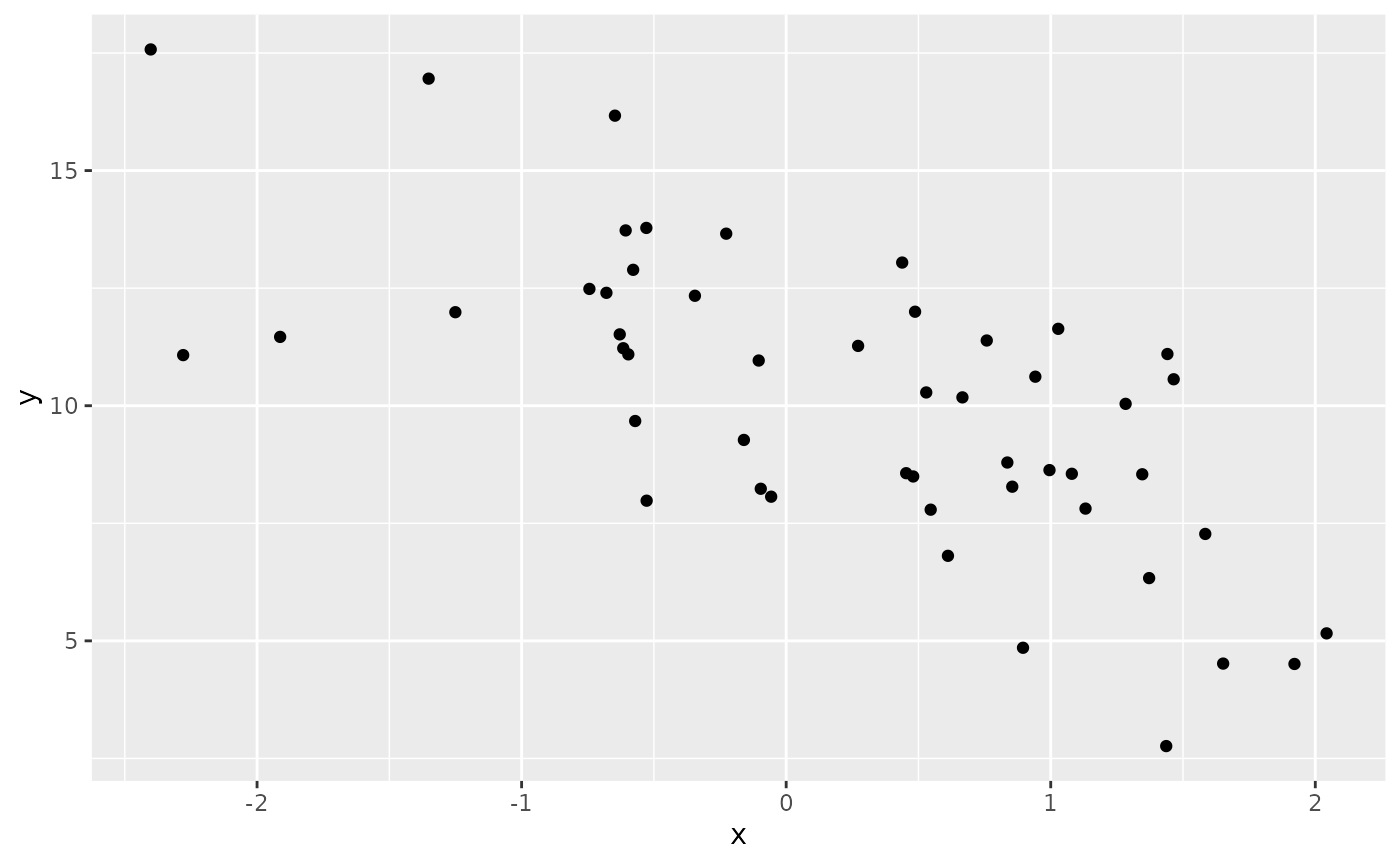
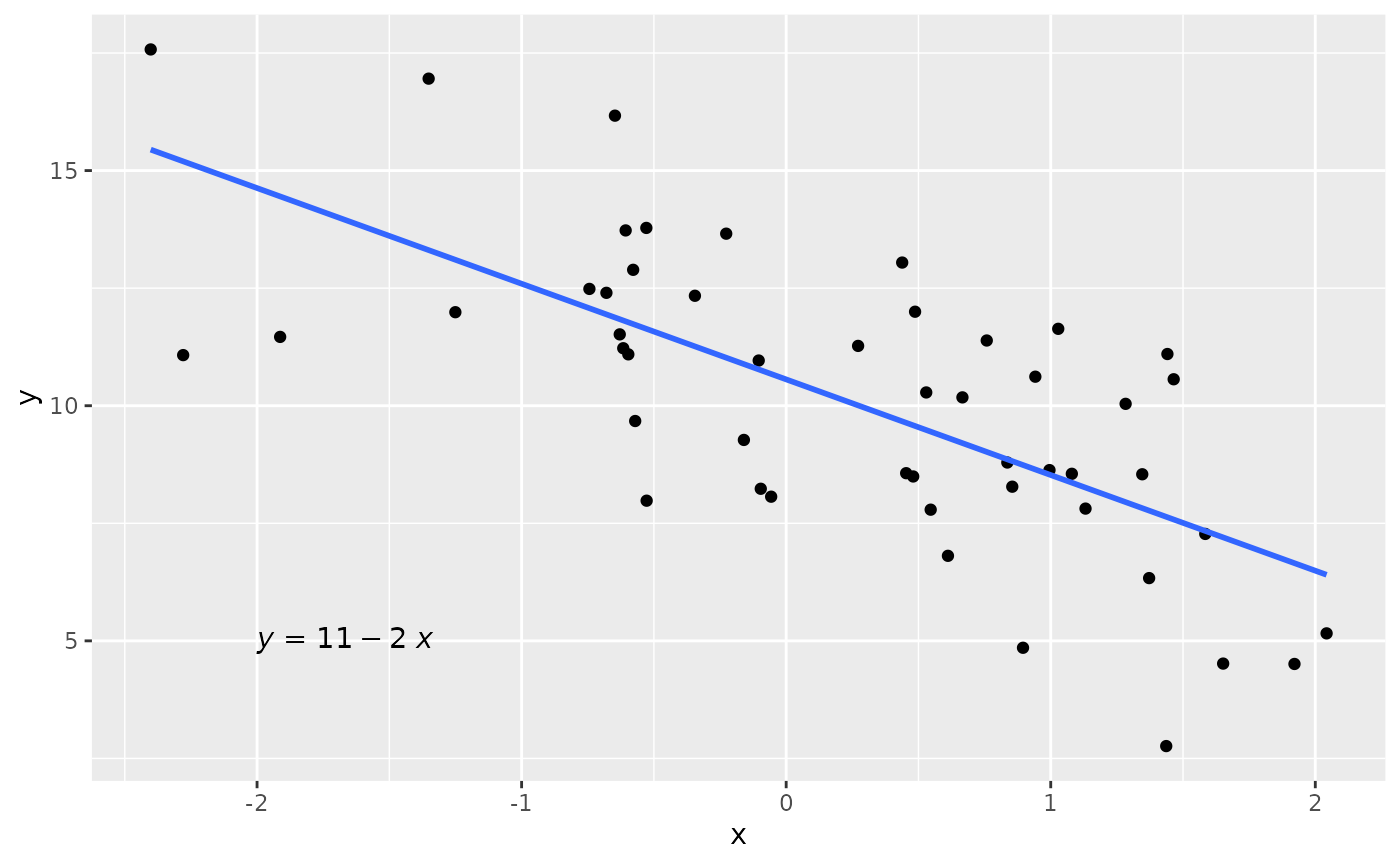
Deploying to gh-pages from @ fndemarqui/reglin@e73794aa79eba68a62bc136738235b41db375cd1 🚀

diff --git a/articles/simdata.html b/articles/simdata.html
@@ -68,9 +68,8 @@
 
 
 
-<script src="simdata_files/htmlwidgets-1.5.4/htmlwidgets.js"></script><script src="simdata_files/plotly-binding-4.10.0/plotly.js"></script><script src="simdata_files/typedarray-0.1/typedarray.min.js"></script><link href="simdata_files/crosstalk-1.2.0/css/crosstalk.min.css" rel="stylesheet">
-<script src="simdata_files/crosstalk-1.2.0/js/crosstalk.min.js"></script><link href="simdata_files/plotly-htmlwidgets-css-2.5.1/plotly-htmlwidgets.css" rel="stylesheet">
-<script src="simdata_files/plotly-main-2.5.1/plotly-latest.min.js"></script><div class="row">
+
+<div class="row">
   <main id="main" class="col-md-9"><div class="page-header">
       <img src="" class="logo" alt=""><h1>Simulação de dados com estrutura de regressão linear</h1>
             
@@ -86,7 +85,6 @@
 <span><span class="kw"><a href="https://rdrr.io/r/base/library.html" class="external-link">library</a></span><span class="op">(</span><span class="va"><a href="https://fndemarqui.github.io/reglin/" class="external-link">reglin</a></span><span class="op">)</span></span>
 <span><span class="kw"><a href="https://rdrr.io/r/base/library.html" class="external-link">library</a></span><span class="op">(</span><span class="va"><a href="https://tidyverse.tidyverse.org" class="external-link">tidyverse</a></span><span class="op">)</span></span>
 <span><span class="kw"><a href="https://rdrr.io/r/base/library.html" class="external-link">library</a></span><span class="op">(</span><span class="va"><a href="https://rpkgs.datanovia.com/ggpubr/" class="external-link">ggpubr</a></span><span class="op">)</span></span>
-<span><span class="kw"><a href="https://rdrr.io/r/base/library.html" class="external-link">library</a></span><span class="op">(</span><span class="va"><a href="https://plotly-r.com" class="external-link">plotly</a></span><span class="op">)</span></span>
 <span></span>
 <span><span class="co"># fixando a semente:</span></span>
 <span><span class="fu"><a href="https://rdrr.io/r/base/Random.html" class="external-link">set.seed</a></span><span class="op">(</span><span class="fl">1234567890</span><span class="op">)</span></span>
@@ -96,20 +94,40 @@
 <span><span class="va">beta</span> <span class="op">&lt;-</span> <span class="fu"><a href="https://rdrr.io/r/base/c.html" class="external-link">c</a></span><span class="op">(</span><span class="fl">10</span>, <span class="op">-</span><span class="fl">2</span><span class="op">)</span></span>
 <span><span class="va">data</span> <span class="op">&lt;-</span><span class="fu"><a href="https://rdrr.io/r/base/data.frame.html" class="external-link">data.frame</a></span><span class="op">(</span>x<span class="op">=</span><span class="fu"><a href="https://rdrr.io/r/stats/Normal.html" class="external-link">rnorm</a></span><span class="op">(</span><span class="va">n</span><span class="op">)</span><span class="op">)</span></span>
 <span></span>
-<span><span class="va">df</span> <span class="op">&lt;-</span> <span class="fu"><a href="../reference/rlm.html">rlm</a></span><span class="op">(</span><span class="op">~</span><span class="va">x</span>, data <span class="op">=</span> <span class="va">data</span>, beta <span class="op">=</span> <span class="va">beta</span>, sigma <span class="op">=</span> <span class="va">sigma</span><span class="op">)</span></span>
-<span><span class="fu"><a href="https://pillar.r-lib.org/reference/glimpse.html" class="external-link">glimpse</a></span><span class="op">(</span><span class="va">df</span><span class="op">)</span></span>
+<span><span class="va">simdata</span> <span class="op">&lt;-</span> <span class="fu"><a href="../reference/rlm.html">rlm</a></span><span class="op">(</span><span class="op">~</span><span class="va">x</span>, data <span class="op">=</span> <span class="va">data</span>, beta <span class="op">=</span> <span class="va">beta</span>, sigma <span class="op">=</span> <span class="va">sigma</span><span class="op">)</span></span>
+<span><span class="fu"><a href="https://pillar.r-lib.org/reference/glimpse.html" class="external-link">glimpse</a></span><span class="op">(</span><span class="va">simdata</span><span class="op">)</span></span>
 <span><span class="co">#&gt; Rows: 50</span></span>
 <span><span class="co">#&gt; Columns: 2</span></span>
 <span><span class="co">#&gt; $ x <span style="color: #949494; font-style: italic;">&lt;dbl&gt;</span> 1.34592454, 0.99527131, 0.54622688, -1.91272392, 1.92128431, 1.37191…</span></span>
 <span><span class="co">#&gt; $ y <span style="color: #949494; font-style: italic;">&lt;dbl&gt;</span> 8.542454, 8.630938, 7.789636, 11.463493, 4.508771, 6.334617, 11.9887…</span></span>
 <span></span>
-<span><span class="va">p</span> <span class="op">&lt;-</span> <span class="fu"><a href="https://ggplot2.tidyverse.org/reference/ggplot.html" class="external-link">ggplot</a></span><span class="op">(</span><span class="va">df</span>, <span class="fu"><a href="https://ggplot2.tidyverse.org/reference/aes.html" class="external-link">aes</a></span><span class="op">(</span>x<span class="op">=</span><span class="va">x</span>, y<span class="op">=</span><span class="va">y</span><span class="op">)</span><span class="op">)</span> <span class="op">+</span></span>
+<span><span class="va">fit</span> <span class="op">&lt;-</span> <span class="fu"><a href="https://rdrr.io/r/stats/lm.html" class="external-link">lm</a></span><span class="op">(</span><span class="va">y</span><span class="op">~</span><span class="va">x</span>, data <span class="op">=</span> <span class="va">simdata</span><span class="op">)</span></span>
+<span><span class="fu"><a href="https://rdrr.io/r/base/summary.html" class="external-link">summary</a></span><span class="op">(</span><span class="va">fit</span><span class="op">)</span></span>
+<span><span class="co">#&gt; </span></span>
+<span><span class="co">#&gt; Call:</span></span>
+<span><span class="co">#&gt; lm(formula = y ~ x, data = simdata)</span></span>
+<span><span class="co">#&gt; </span></span>
+<span><span class="co">#&gt; Residuals:</span></span>
+<span><span class="co">#&gt;     Min      1Q  Median      3Q     Max </span></span>
+<span><span class="co">#&gt; -4.8754 -1.5681  0.0157  1.9631  4.2915 </span></span>
+<span><span class="co">#&gt; </span></span>
+<span><span class="co">#&gt; Coefficients:</span></span>
+<span><span class="co">#&gt;             Estimate Std. Error t value Pr(&gt;|t|)    </span></span>
+<span><span class="co">#&gt; (Intercept)  10.5600     0.3292  32.079  &lt; 2e-16 ***</span></span>
+<span><span class="co">#&gt; x            -2.0341     0.3066  -6.634 2.68e-08 ***</span></span>
+<span><span class="co">#&gt; ---</span></span>
+<span><span class="co">#&gt; Signif. codes:  0 '***' 0.001 '**' 0.01 '*' 0.05 '.' 0.1 ' ' 1</span></span>
+<span><span class="co">#&gt; </span></span>
+<span><span class="co">#&gt; Residual standard error: 2.272 on 48 degrees of freedom</span></span>
+<span><span class="co">#&gt; Multiple R-squared:  0.4783, Adjusted R-squared:  0.4674 </span></span>
+<span><span class="co">#&gt; F-statistic: 44.01 on 1 and 48 DF,  p-value: 2.679e-08</span></span>
+<span></span>
+<span><span class="fu"><a href="https://ggplot2.tidyverse.org/reference/ggplot.html" class="external-link">ggplot</a></span><span class="op">(</span><span class="va">simdata</span>, <span class="fu"><a href="https://ggplot2.tidyverse.org/reference/aes.html" class="external-link">aes</a></span><span class="op">(</span>x<span class="op">=</span><span class="va">x</span>, y<span class="op">=</span><span class="va">y</span><span class="op">)</span><span class="op">)</span> <span class="op">+</span></span>
 <span>  <span class="fu"><a href="https://ggplot2.tidyverse.org/reference/geom_point.html" class="external-link">geom_point</a></span><span class="op">(</span><span class="op">)</span> <span class="op">+</span></span>
 <span>  <span class="fu"><a href="https://ggplot2.tidyverse.org/reference/geom_smooth.html" class="external-link">geom_smooth</a></span><span class="op">(</span>method <span class="op">=</span> <span class="st">"lm"</span>, se <span class="op">=</span> <span class="cn">FALSE</span><span class="op">)</span> <span class="op">+</span></span>
-<span>  <span class="fu"><a href="https://rpkgs.datanovia.com/ggpubr/reference/stat_regline_equation.html" class="external-link">stat_regline_equation</a></span><span class="op">(</span>label.y <span class="op">=</span> <span class="fl">5</span>, <span class="fu"><a href="https://ggplot2.tidyverse.org/reference/aes.html" class="external-link">aes</a></span><span class="op">(</span>label <span class="op">=</span> <span class="va">..eq.label..</span><span class="op">)</span><span class="op">)</span> </span>
-<span><span class="fu"><a href="https://rdrr.io/pkg/plotly/man/ggplotly.html" class="external-link">ggplotly</a></span><span class="op">(</span><span class="va">p</span><span class="op">)</span></span></code></pre></div>
-<div id="htmlwidget-e1d6fc56e5271329fb69" style="width:700px;height:432.632880098888px;" class="plotly html-widget"></div>
-<script type="application/json" data-for="htmlwidget-e1d6fc56e5271329fb69">{"x":{"data":[{"x":[1.3459245381923,0.995271312965298,0.546226875828867,-1.91272392156389,1.921284305669,1.3719138568425,-1.25045356359589,0.480116911147901,-0.103819801932945,-0.615838061882202,-1.35140113975554,-0.578355706777285,-0.22664989380891,1.44101680522372,-0.743758086165429,0.529413891873139,1.58412552378419,0.487211150287801,1.02839685895378,0.941765836370797,0.666221093286926,-0.647197454322214,-0.0567384086313425,0.854598786923454,-0.570722813123296,0.611492284992141,-0.679480766245259,1.65171110567138,2.04270824691072,0.438530660737964,0.895229787275152,-0.52855599247549,0.835975751127644,-0.0960131914576995,1.13147287327921,-0.344945548112284,0.453579878853192,-2.40195801169101,1.43654270337137,-0.527406568726172,0.271869586852976,-2.27926616176065,-0.606722789962877,1.46474013063093,1.07975620755741,-0.629092017597172,-0.596662761397588,-0.159839109001641,0.758145721006879,1.28304030507327],"y":[8.54245396642656,8.63093807499985,7.78963601280809,11.463492654778,4.50877086453948,6.33461653881759,11.9887730031591,8.49575255739009,10.9610424136764,11.2224713762854,16.9551067103487,12.8899493605194,13.6585343550206,11.0994330651094,12.4840472283761,10.282270735746,7.27381979671703,11.9988878102797,11.6352366718884,10.6173805567457,10.1775390212875,16.1679404032242,8.06573711580625,8.27830945156531,9.67481244711275,6.80830334886976,12.4007049527272,4.51675797704226,5.1593109737032,13.044350193646,4.8531588161244,13.7808857420336,8.79246385585234,8.23421666365391,7.81253669200312,12.3379563039019,8.56533538782359,17.5759327682115,2.76261360619256,7.98069371213392,11.2720622563731,11.0761980775373,13.7275551796307,10.5627033262626,8.55260668432268,11.5171855234725,11.0924330410844,9.27261522732408,11.386874791127,10.040061312703],"text":["x:  1.34592454<br />y:  8.542454","x:  0.99527131<br />y:  8.630938","x:  0.54622688<br />y:  7.789636","x: -1.91272392<br />y: 11.463493","x:  1.92128431<br />y:  4.508771","x:  1.37191386<br />y:  6.334617","x: -1.25045356<br />y: 11.988773","x:  0.48011691<br />y:  8.495753","x: -0.10381980<br />y: 10.961042","x: -0.61583806<br />y: 11.222471","x: -1.35140114<br />y: 16.955107","x: -0.57835571<br />y: 12.889949","x: -0.22664989<br />y: 13.658534","x:  1.44101681<br />y: 11.099433","x: -0.74375809<br />y: 12.484047","x:  0.52941389<br />y: 10.282271","x:  1.58412552<br />y:  7.273820","x:  0.48721115<br />y: 11.998888","x:  1.02839686<br />y: 11.635237","x:  0.94176584<br />y: 10.617381","x:  0.66622109<br />y: 10.177539","x: -0.64719745<br />y: 16.167940","x: -0.05673841<br />y:  8.065737","x:  0.85459879<br />y:  8.278309","x: -0.57072281<br />y:  9.674812","x:  0.61149228<br />y:  6.808303","x: -0.67948077<br />y: 12.400705","x:  1.65171111<br />y:  4.516758","x:  2.04270825<br />y:  5.159311","x:  0.43853066<br />y: 13.044350","x:  0.89522979<br />y:  4.853159","x: -0.52855599<br />y: 13.780886","x:  0.83597575<br />y:  8.792464","x: -0.09601319<br />y:  8.234217","x:  1.13147287<br />y:  7.812537","x: -0.34494555<br />y: 12.337956","x:  0.45357988<br />y:  8.565335","x: -2.40195801<br />y: 17.575933","x:  1.43654270<br />y:  2.762614","x: -0.52740657<br />y:  7.980694","x:  0.27186959<br />y: 11.272062","x: -2.27926616<br />y: 11.076198","x: -0.60672279<br />y: 13.727555","x:  1.46474013<br />y: 10.562703","x:  1.07975621<br />y:  8.552607","x: -0.62909202<br />y: 11.517186","x: -0.59666276<br />y: 11.092433","x: -0.15983911<br />y:  9.272615","x:  0.75814572<br />y: 11.386875","x:  1.28304031<br />y: 10.040061"],"type":"scatter","mode":"markers","marker":{"autocolorscale":false,"color":"rgba(0,0,0,1)","opacity":1,"size":5.66929133858268,"symbol":"circle","line":{"width":1.88976377952756,"color":"rgba(0,0,0,1)"}},"hoveron":"points","showlegend":false,"xaxis":"x","yaxis":"y","hoverinfo":"text","frame":null},{"x":[-2.40195801169101,-2.34569641348086,-2.28943481527071,-2.23317321706056,-2.17691161885042,-2.12065002064027,-2.06438842243012,-2.00812682421997,-1.95186522600982,-1.89560362779967,-1.83934202958952,-1.78308043137938,-1.72681883316923,-1.67055723495908,-1.61429563674893,-1.55803403853878,-1.50177244032863,-1.44551084211849,-1.38924924390834,-1.33298764569819,-1.27672604748804,-1.22046444927789,-1.16420285106774,-1.10794125285759,-1.05167965464745,-0.995418056437297,-0.939156458227148,-0.882894860017,-0.826633261806851,-0.770371663596703,-0.714110065386554,-0.657848467176406,-0.601586868966257,-0.545325270756109,-0.48906367254596,-0.432802074335812,-0.376540476125663,-0.320278877915515,-0.264017279705366,-0.207755681495217,-0.151494083285069,-0.0952324850749204,-0.0389708868647718,0.0172907113453769,0.0735523095555251,0.129813907765674,0.186075505975822,0.242337104185971,0.298598702396119,0.354860300606268,0.411121898816416,0.467383497026565,0.523645095236713,0.579906693446862,0.636168291657011,0.692429889867159,0.748691488077307,0.804953086287456,0.861214684497605,0.917476282707753,0.973737880917902,1.02999947912805,1.0862610773382,1.14252267554835,1.1987842737585,1.25504587196864,1.31130747017879,1.36756906838894,1.42383066659909,1.48009226480924,1.53635386301939,1.59261546122954,1.64887705943968,1.70513865764983,1.76140025585998,1.81766185407013,1.87392345228028,1.93018505049043,1.98644664870058,2.04270824691072],"y":[15.445793433411,15.3313526757703,15.2169119181297,15.1024711604891,14.9880304028485,14.8735896452079,14.7591488875673,14.6447081299267,14.530267372286,14.4158266146454,14.3013858570048,14.1869450993642,14.0725043417236,13.958063584083,13.8436228264424,13.7291820688017,13.6147413111611,13.5003005535205,13.3858597958799,13.2714190382393,13.1569782805987,13.0425375229581,12.9280967653174,12.8136560076768,12.6992152500362,12.5847744923956,12.470333734755,12.3558929771144,12.2414522194738,12.1270114618331,12.0125707041925,11.8981299465519,11.7836891889113,11.6692484312707,11.5548076736301,11.4403669159895,11.3259261583488,11.2114854007082,11.0970446430676,10.982603885427,10.8681631277864,10.7537223701458,10.6392816125052,10.5248408548645,10.4104000972239,10.2959593395833,10.1815185819427,10.0670778243021,9.95263706666147,9.83819630902086,9.72375555138024,9.60931479373963,9.49487403609901,9.3804332784584,9.26599252081778,9.15155176317717,9.03711100553656,8.92267024789594,8.80822949025533,8.69378873261471,8.5793479749741,8.46490721733348,8.35046645969287,8.23602570205226,8.12158494441164,8.00714418677103,7.89270342913041,7.7782626714898,7.66382191384919,7.54938115620857,7.43494039856796,7.32049964092734,7.20605888328673,7.09161812564611,6.9771773680055,6.86273661036488,6.74829585272427,6.63385509508366,6.51941433744304,6.40497357980243],"text":["x: -2.40195801<br />y: 15.445793","x: -2.34569641<br />y: 15.331353","x: -2.28943482<br />y: 15.216912","x: -2.23317322<br />y: 15.102471","x: -2.17691162<br />y: 14.988030","x: -2.12065002<br />y: 14.873590","x: -2.06438842<br />y: 14.759149","x: -2.00812682<br />y: 14.644708","x: -1.95186523<br />y: 14.530267","x: -1.89560363<br />y: 14.415827","x: -1.83934203<br />y: 14.301386","x: -1.78308043<br />y: 14.186945","x: -1.72681883<br />y: 14.072504","x: -1.67055723<br />y: 13.958064","x: -1.61429564<br />y: 13.843623","x: -1.55803404<br />y: 13.729182","x: -1.50177244<br />y: 13.614741","x: -1.44551084<br />y: 13.500301","x: -1.38924924<br />y: 13.385860","x: -1.33298765<br />y: 13.271419","x: -1.27672605<br />y: 13.156978","x: -1.22046445<br />y: 13.042538","x: -1.16420285<br />y: 12.928097","x: -1.10794125<br />y: 12.813656","x: -1.05167965<br />y: 12.699215","x: -0.99541806<br />y: 12.584774","x: -0.93915646<br />y: 12.470334","x: -0.88289486<br />y: 12.355893","x: -0.82663326<br />y: 12.241452","x: -0.77037166<br />y: 12.127011","x: -0.71411007<br />y: 12.012571","x: -0.65784847<br />y: 11.898130","x: -0.60158687<br />y: 11.783689","x: -0.54532527<br />y: 11.669248","x: -0.48906367<br />y: 11.554808","x: -0.43280207<br />y: 11.440367","x: -0.37654048<br />y: 11.325926","x: -0.32027888<br />y: 11.211485","x: -0.26401728<br />y: 11.097045","x: -0.20775568<br />y: 10.982604","x: -0.15149408<br />y: 10.868163","x: -0.09523249<br />y: 10.753722","x: -0.03897089<br />y: 10.639282","x:  0.01729071<br />y: 10.524841","x:  0.07355231<br />y: 10.410400","x:  0.12981391<br />y: 10.295959","x:  0.18607551<br />y: 10.181519","x:  0.24233710<br />y: 10.067078","x:  0.29859870<br />y:  9.952637","x:  0.35486030<br />y:  9.838196","x:  0.41112190<br />y:  9.723756","x:  0.46738350<br />y:  9.609315","x:  0.52364510<br />y:  9.494874","x:  0.57990669<br />y:  9.380433","x:  0.63616829<br />y:  9.265993","x:  0.69242989<br />y:  9.151552","x:  0.74869149<br />y:  9.037111","x:  0.80495309<br />y:  8.922670","x:  0.86121468<br />y:  8.808229","x:  0.91747628<br />y:  8.693789","x:  0.97373788<br />y:  8.579348","x:  1.02999948<br />y:  8.464907","x:  1.08626108<br />y:  8.350466","x:  1.14252268<br />y:  8.236026","x:  1.19878427<br />y:  8.121585","x:  1.25504587<br />y:  8.007144","x:  1.31130747<br />y:  7.892703","x:  1.36756907<br />y:  7.778263","x:  1.42383067<br />y:  7.663822","x:  1.48009226<br />y:  7.549381","x:  1.53635386<br />y:  7.434940","x:  1.59261546<br />y:  7.320500","x:  1.64887706<br />y:  7.206059","x:  1.70513866<br />y:  7.091618","x:  1.76140026<br />y:  6.977177","x:  1.81766185<br />y:  6.862737","x:  1.87392345<br />y:  6.748296","x:  1.93018505<br />y:  6.633855","x:  1.98644665<br />y:  6.519414","x:  2.04270825<br />y:  6.404974"],"type":"scatter","mode":"lines","name":"fitted values","line":{"width":3.77952755905512,"color":"rgba(51,102,255,1)","dash":"solid"},"hoveron":"points","showlegend":false,"xaxis":"x","yaxis":"y","hoverinfo":"text","frame":null},{"x":[-2.40195801169101],"y":[5],"text":"italic(y)~`=`~11 - 2*~italic(x)","hovertext":"hjust: 0<br />vjust: 0.5<br />x: -2.401958<br />y: 5<br />eq.label: italic(y)~`=`~11 - 2*~italic(x)","textfont":{"size":14.6645669291339,"color":"rgba(0,0,0,1)"},"type":"scatter","mode":"text","hoveron":"points","showlegend":false,"xaxis":"x","yaxis":"y","hoverinfo":"text","frame":null}],"layout":{"margin":{"t":27.8246364188244,"r":7.30593607305936,"b":41.7789743183678,"l":37.2602739726027},"plot_bgcolor":"rgba(235,235,235,1)","paper_bgcolor":"rgba(255,255,255,1)","font":{"color":"rgba(0,0,0,1)","family":"","size":14.6118721461187},"xaxis":{"domain":[0,1],"automargin":true,"type":"linear","autorange":false,"range":[-2.6241913246211,2.26494155984081],"tickmode":"array","ticktext":["-2","-1","0","1","2"],"tickvals":[-2,-1,0,1,2],"categoryorder":"array","categoryarray":["-2","-1","0","1","2"],"nticks":null,"ticks":"outside","tickcolor":"rgba(51,51,51,1)","ticklen":3.65296803652968,"tickwidth":0.66417600664176,"showticklabels":true,"tickfont":{"color":"rgba(77,77,77,1)","family":"","size":11.689497716895},"tickangle":-0,"showline":false,"linecolor":null,"linewidth":0,"showgrid":true,"gridcolor":"rgba(255,255,255,1)","gridwidth":0.66417600664176,"zeroline":false,"anchor":"y","title":{"text":"x","font":{"color":"rgba(0,0,0,1)","family":"","size":14.6118721461187}},"hoverformat":".2f"},"yaxis":{"domain":[0,1],"automargin":true,"type":"linear","autorange":false,"range":[2.02194764809161,18.3165987263124],"tickmode":"array","ticktext":["5","10","15"],"tickvals":[5,10,15],"categoryorder":"array","categoryarray":["5","10","15"],"nticks":null,"ticks":"outside","tickcolor":"rgba(51,51,51,1)","ticklen":3.65296803652968,"tickwidth":0.66417600664176,"showticklabels":true,"tickfont":{"color":"rgba(77,77,77,1)","family":"","size":11.689497716895},"tickangle":-0,"showline":false,"linecolor":null,"linewidth":0,"showgrid":true,"gridcolor":"rgba(255,255,255,1)","gridwidth":0.66417600664176,"zeroline":false,"anchor":"x","title":{"text":"y","font":{"color":"rgba(0,0,0,1)","family":"","size":14.6118721461187}},"hoverformat":".2f"},"shapes":[{"type":"rect","fillcolor":null,"line":{"color":null,"width":0,"linetype":[]},"yref":"paper","xref":"paper","x0":0,"x1":1,"y0":0,"y1":1}],"showlegend":false,"legend":{"bgcolor":"rgba(255,255,255,1)","bordercolor":"transparent","borderwidth":1.88976377952756,"font":{"color":"rgba(0,0,0,1)","family":"","size":11.689497716895}},"hovermode":"closest","barmode":"relative"},"config":{"doubleClick":"reset","modeBarButtonsToAdd":["hoverclosest","hovercompare"],"showSendToCloud":false},"source":"A","attrs":{"2f34159c0bb":{"x":{},"y":{},"type":"scatter"},"2f349c4b036":{"x":{},"y":{}},"2f342c2fd21c":{"x":{},"y":{},"label":{}}},"cur_data":"2f34159c0bb","visdat":{"2f34159c0bb":["function (y) ","x"],"2f349c4b036":["function (y) ","x"],"2f342c2fd21c":["function (y) ","x"]},"highlight":{"on":"plotly_click","persistent":false,"dynamic":false,"selectize":false,"opacityDim":0.2,"selected":{"opacity":1},"debounce":0},"shinyEvents":["plotly_hover","plotly_click","plotly_selected","plotly_relayout","plotly_brushed","plotly_brushing","plotly_clickannotation","plotly_doubleclick","plotly_deselect","plotly_afterplot","plotly_sunburstclick"],"base_url":"https://plot.ly"},"evals":[],"jsHooks":[]}</script></main>
+<span>  <span class="fu"><a href="https://rpkgs.datanovia.com/ggpubr/reference/stat_regline_equation.html" class="external-link">stat_regline_equation</a></span><span class="op">(</span>label.x <span class="op">=</span> <span class="op">-</span><span class="fl">2</span>, label.y <span class="op">=</span> <span class="fl">5</span>, <span class="fu"><a href="https://ggplot2.tidyverse.org/reference/aes.html" class="external-link">aes</a></span><span class="op">(</span>label <span class="op">=</span> <span class="va">..eq.label..</span><span class="op">)</span><span class="op">)</span> </span></code></pre></div>
+<p><img src="simdata_files/figure-html/unnamed-chunk-2-1.png" width="700"></p>
+  </main>
 </div>
 
 
